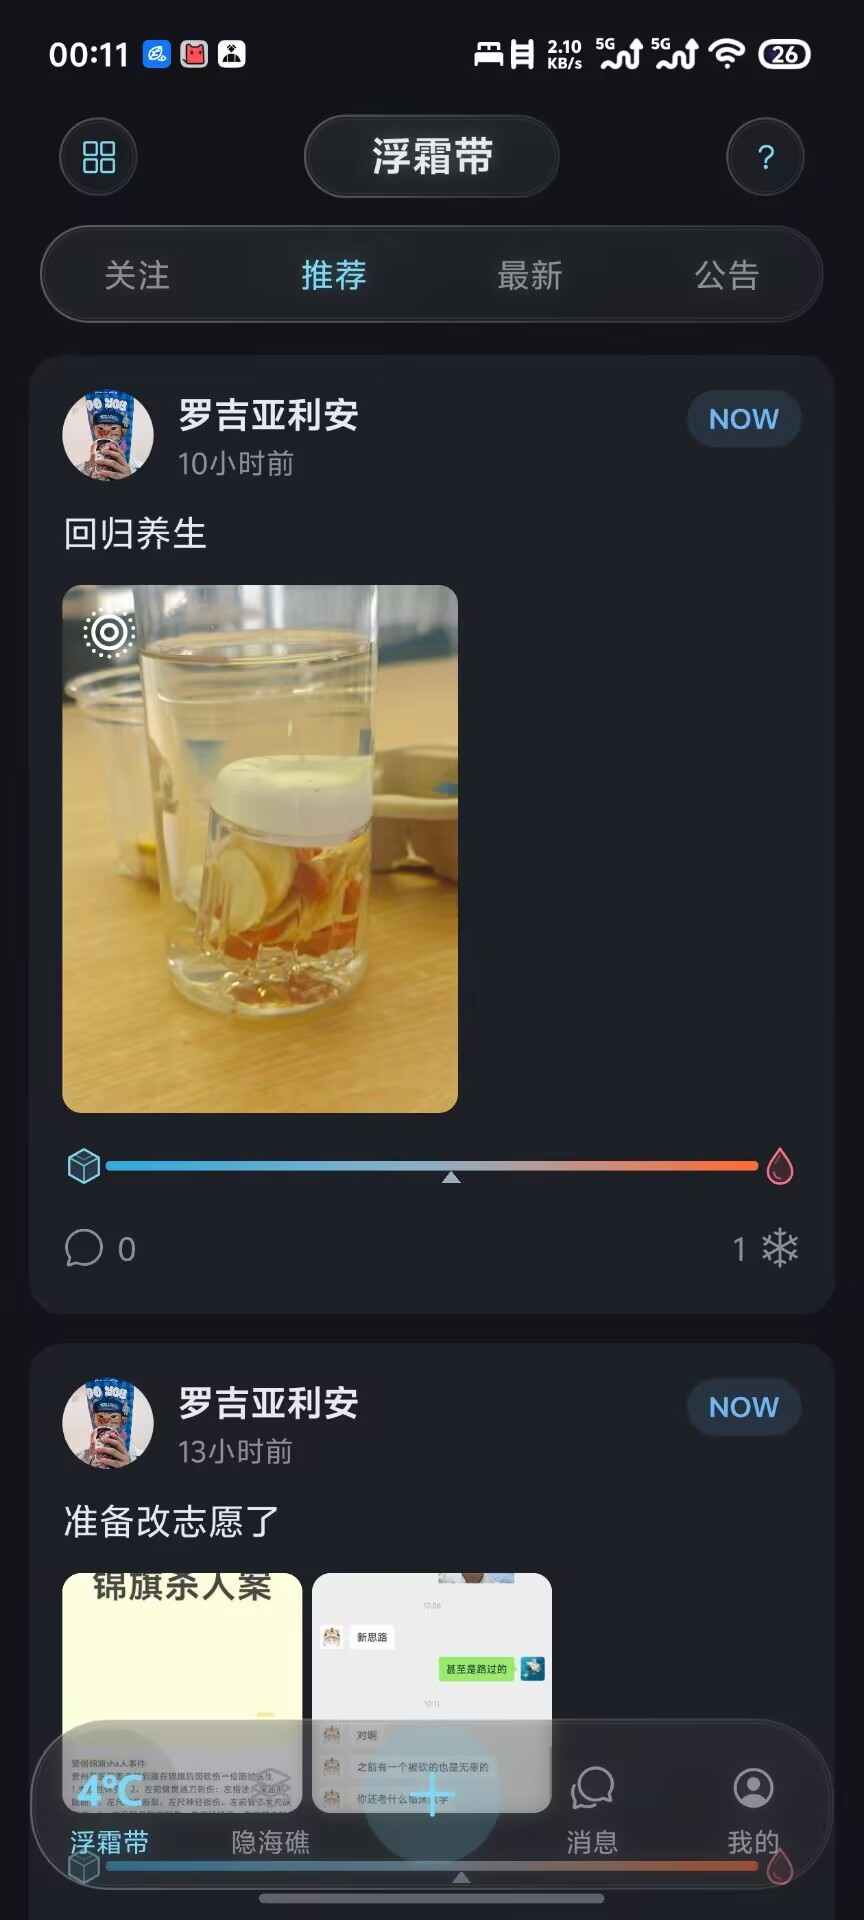
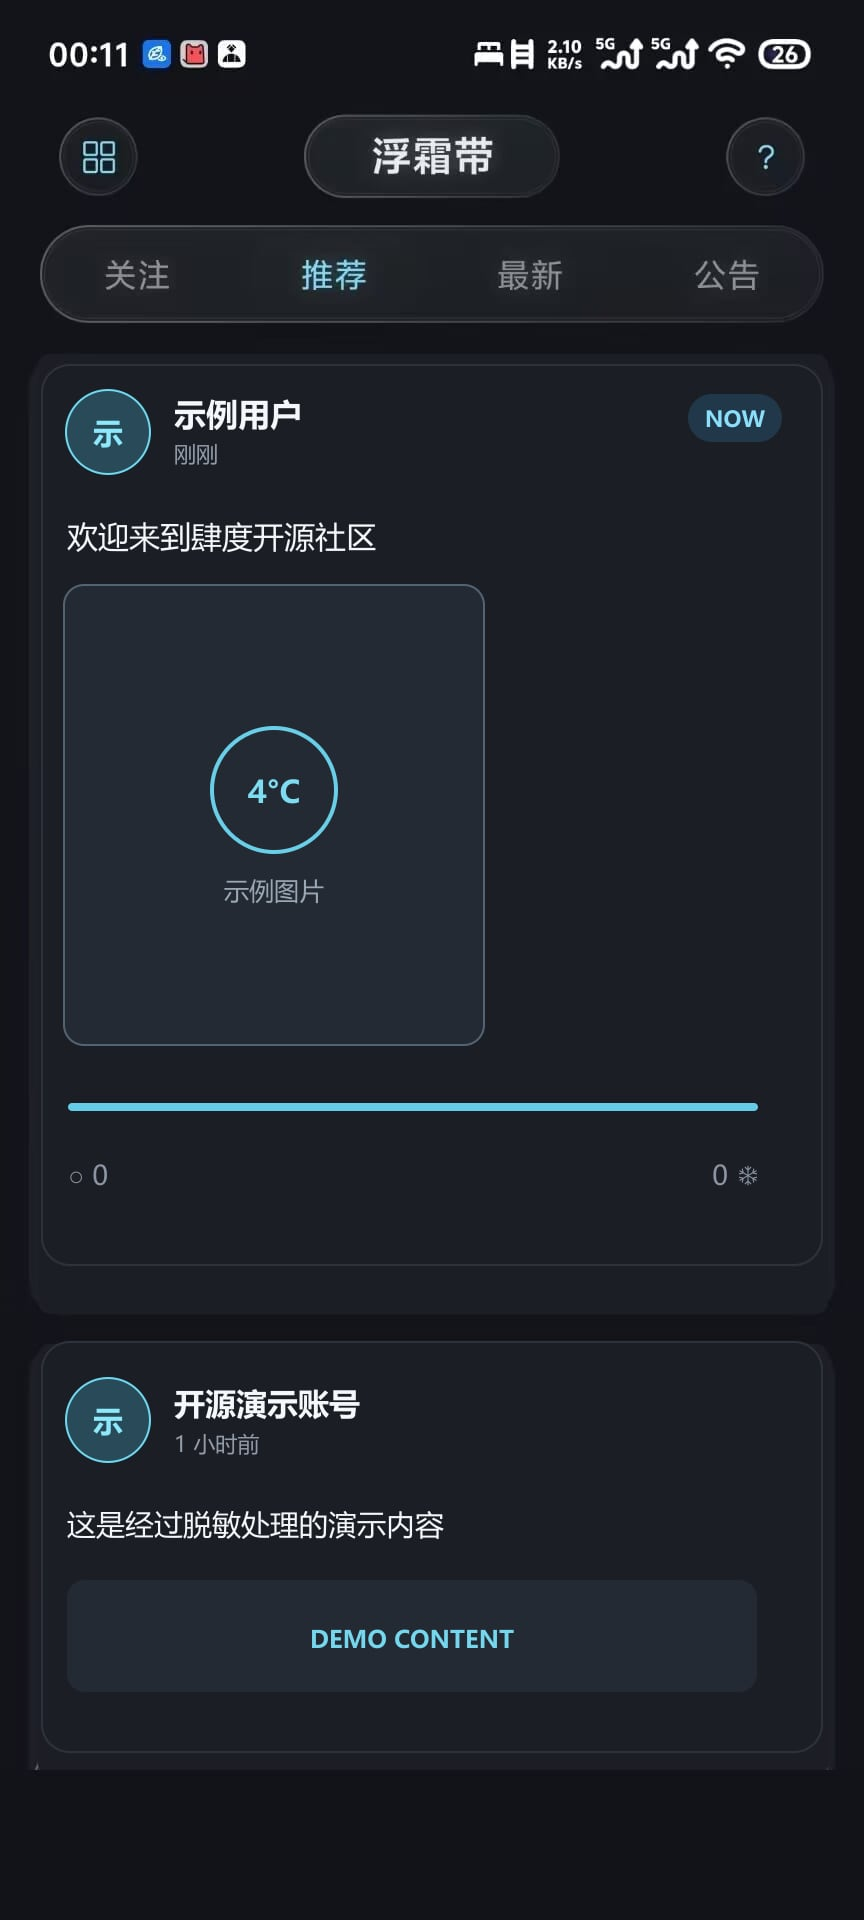
chore: sanitize public repository defaults and assets

diff --git a/server/src/index.js b/server/src/index.js
@@ -1,5 +1,4 @@
 require('dotenv').config();
-const crypto = require('node:crypto');
 const express = require('express');
 const http = require('http');
 const cors = require('cors');
@@ -221,22 +220,24 @@ app.use((error, req, res, next) => {
   if (!admin) {
     const isProduction = process.env.NODE_ENV === 'production';
     const bootstrapUsername = String(process.env.ADMIN_BOOTSTRAP_USERNAME || (isProduction ? '' : 'noesis')).trim();
-    let bootstrapPassword = String(process.env.ADMIN_BOOTSTRAP_PASSWORD || '');
-    const generatedPassword = !bootstrapPassword && !isProduction;
-    if (generatedPassword) bootstrapPassword = crypto.randomBytes(18).toString('base64url');
-    if (bootstrapUsername.length < 3 || bootstrapUsername.length > 64 || bootstrapPassword.length < 12 || bootstrapPassword.length > 128) {
+    const bootstrapPassword = String(process.env.ADMIN_BOOTSTRAP_PASSWORD || (isProduction ? '' : 'noesis'));
+    const usesPublishedLocalCredentials = bootstrapUsername === 'noesis' && bootstrapPassword === 'noesis';
+    const invalidPasswordLength = bootstrapPassword.length > 128
+      || (isProduction && bootstrapPassword.length < 12)
+      || (!isProduction && bootstrapPassword.length < 6);
+    if (bootstrapUsername.length < 3 || bootstrapUsername.length > 64 || invalidPasswordLength || (isProduction && usesPublishedLocalCredentials)) {
       console.error(isProduction
-        ? '未创建超级管理员：生产环境必须设置 3-64 位 ADMIN_BOOTSTRAP_USERNAME 和 12-128 位 ADMIN_BOOTSTRAP_PASSWORD'
-        : '未创建超级管理员：请设置有效的 ADMIN_BOOTSTRAP_PASSWORD，或保持为空以生成一次性本地测试密码');
+        ? '未创建超级管理员：生产环境必须设置自定义的 3-64 位 ADMIN_BOOTSTRAP_USERNAME 和 12-128 位 ADMIN_BOOTSTRAP_PASSWORD'
+        : '未创建超级管理员：本地管理员密码必须为 6-128 位');
       return;
     }
     const id = uuid();
     const hash = bcrypt.hashSync(bootstrapPassword, 10);
     db.prepare(`INSERT INTO users (id, username, password_hash, nickname, role, status)
       VALUES (?, ?, ?, '超级管理员', 'superadmin', 'active')`).run(id, bootstrapUsername, hash);
-    if (generatedPassword) {
-      console.warn(`本地超级管理员已创建: ${bootstrapUsername}`);
-      console.warn(`一次性初始密码（仅显示本次，请立即登录后修改）: ${bootstrapPassword}`);
+    if (usesPublishedLocalCredentials) {
+      console.warn('本地超级管理员已创建：noesis / noesis');
+      console.warn('该凭据仅用于本地测试，请登录后立即修改登录 ID 和密码');
     } else {
       console.log(`超级管理员已创建: ${bootstrapUsername}`);
     }

diff --git a/server/test/cos-media-signing.test.js b/server/test/cos-media-signing.test.js
@@ -7,7 +7,7 @@ function signer() {
   return createCosMediaSigner({
     secretId: 'AKIDEXAMPLE',
     secretKey: 'secret-example',
-    bucket: 'sidu-1234567890',
+    bucket: 'example-media-1234567890',
     region: 'ap-guangzhou',
     ttlSeconds: 3600,
   });
@@ -15,23 +15,23 @@ function signer() {
 
 test('signs only URLs from the configured COS bucket', () => {
   const media = signer();
-  const source = 'https://sidu-1234567890.cos.ap-guangzhou.myqcloud.com/USERS/u1/posts/a.jpg';
+  const source = 'https://example-media-1234567890.cos.ap-guangzhou.myqcloud.com/USERS/u1/posts/a.jpg';
   const signed = media.signUrl(source);
-  assert.match(signed, /^https:\/\/sidu-1234567890\.cos\.ap-guangzhou\.myqcloud\.com\/USERS\/u1\/posts\/a\.jpg\?/);
+  assert.match(signed, /^https:\/\/example-media-1234567890\.cos\.ap-guangzhou\.myqcloud\.com\/USERS\/u1\/posts\/a\.jpg\?/);
   assert.match(signed, /q-signature=/);
   assert.equal(media.signUrl('https://other.example.com/a.jpg'), 'https://other.example.com/a.jpg');
 });
 
 test('keeps signed URLs stable during the cache window', () => {
   const media = signer();
-  const source = 'https://sidu-1234567890.cos.ap-guangzhou.myqcloud.com/USERS/u1/videos/a.mp4';
+  const source = 'https://example-media-1234567890.cos.ap-guangzhou.myqcloud.com/USERS/u1/videos/a.mp4';
   assert.equal(media.signUrl(source), media.signUrl(source));
 });
 
 test('deep-signs media URLs inside objects, arrays, and JSON message content', () => {
   const media = signer();
-  const stillUrl = 'https://sidu-1234567890.cos.ap-guangzhou.myqcloud.com/USERS/u1/live/a.jpg';
-  const motionUrl = 'https://sidu-1234567890.cos.ap-guangzhou.myqcloud.com/USERS/u1/live/a.mp4';
+  const stillUrl = 'https://example-media-1234567890.cos.ap-guangzhou.myqcloud.com/USERS/u1/live/a.jpg';
+  const motionUrl = 'https://example-media-1234567890.cos.ap-guangzhou.myqcloud.com/USERS/u1/live/a.mp4';
   const result = media.signPayload({
     avatar: stillUrl,
     images: [stillUrl],
@@ -48,7 +48,7 @@ test('deep-signs media URLs inside objects, arrays, and JSON message content', (
 
 test('is a no-op when COS signing is not configured', () => {
   const media = createCosMediaSigner({ secretId: '', secretKey: '', bucket: '', region: '' });
-  const source = 'https://sidu-1234567890.cos.ap-guangzhou.myqcloud.com/a.jpg';
+  const source = 'https://example-media-1234567890.cos.ap-guangzhou.myqcloud.com/a.jpg';
   const payload = { content: '{  "kept" : true }', source };
   assert.equal(media.enabled, false);
   assert.equal(media.signUrl(source), source);

diff --git a/community-app/src/data/store.ts b/community-app/src/data/store.ts
@@ -135,7 +135,7 @@ const mutualPairs = new Set<string>();
 const NAME_TO_UID: Record<string, string> = {
   '山间清风': '10234567', '深夜干饭人': '10289123', 'Tech小王': '10345678',
   '一只咸鱼': '10412001', '阅读记录本': '10567890', '路人甲': '10654321',
-  '吕归尘': '10247835',
+  '示例用户': '1000001',
   '系统通知': '10000000', '背包客小李': '10789012', '在路上': '10890123',
   '摄影穷三代': '10901234', '干饭魂': '11012345', '过路的': '11123456',
   '数码羊毛党': '11234567', '峡谷养老院': '11345678', '书虫一枚': '11456789',
@@ -189,10 +189,10 @@ export function isMutuallyHidden(nameA: string, nameB: string) {
 export function setBlocked(name: string, blocked: boolean) {
   if (blocked) {
     blockedUsers[name] = true;
-    mutualPairs.add(pairKey(getUid('吕归尘'), getUid(name)));
+    mutualPairs.add(pairKey(getUid('示例用户'), getUid(name)));
   } else {
     delete blockedUsers[name];
-    mutualPairs.delete(pairKey(getUid('吕归尘'), getUid(name)));
+    mutualPairs.delete(pairKey(getUid('示例用户'), getUid(name)));
   }
   bump();
 }

diff --git a/server/test/admin-bootstrap-security.test.js b/server/test/admin-bootstrap-security.test.js
@@ -5,11 +5,12 @@ const path = require('node:path');
 
 const source = fs.readFileSync(path.join(__dirname, '..', 'src', 'index.js'), 'utf8');
 
-test('server startup never creates a known default administrator', () => {
-  assert.doesNotMatch(source, /ADMIN_BOOTSTRAP_USERNAME \|\| 'admin'/);
-  assert.doesNotMatch(source, /admin123/);
-  assert.match(source, /const crypto = require\('node:crypto'\)/);
-  assert.match(source, /crypto\.randomBytes\(18\)/);
+test('local startup is easy while production rejects the published credentials', () => {
+  assert.match(source, /ADMIN_BOOTSTRAP_USERNAME \|\| \(isProduction \? '' : 'noesis'\)/);
+  assert.match(source, /ADMIN_BOOTSTRAP_PASSWORD \|\| \(isProduction \? '' : 'noesis'\)/);
+  assert.match(source, /usesPublishedLocalCredentials/);
+  assert.match(source, /isProduction && usesPublishedLocalCredentials/);
   assert.match(source, /bootstrapUsername\.length < 3/);
-  assert.match(source, /bootstrapPassword\.length < 12/);
+  assert.match(source, /isProduction && bootstrapPassword\.length < 12/);
+  assert.match(source, /!isProduction && bootstrapPassword\.length < 6/);
 });

diff --git a/server/test/ip-region.test.js b/server/test/ip-region.test.js
@@ -3,12 +3,12 @@ const assert = require('node:assert/strict');
 const { normalizeIp, resolveIpRegion, shortRegionName } = require('../src/lib/ip-region');
 
 test('normalizes IPv4-mapped addresses and rejects invalid input', () => {
-  assert.equal(normalizeIp('::ffff:120.24.78.68'), '120.24.78.68');
+  assert.equal(normalizeIp('::ffff:8.8.8.8'), '8.8.8.8');
   assert.equal(normalizeIp('not-an-ip'), '');
 });
 
 test('returns coarse regions without exposing the full address', () => {
-  assert.equal(resolveIpRegion('120.24.78.68'), '广东');
+  assert.equal(resolveIpRegion('8.8.8.8'), '美国');
   assert.equal(resolveIpRegion('192.168.1.5'), '未知');
   assert.equal(shortRegionName('广西壮族自治区'), '广西');
   assert.equal(shortRegionName('香港特别行政区'), '香港');

diff --git a/server/test/app-update-chain-security.test.js b/server/test/app-update-chain-security.test.js
@@ -81,7 +81,7 @@ test('iOS checks the App Store instead of applying an in-app OTA', () => {
 
 test('Android build 13 treats DEV-070 as embedded while preserving future OTA checks', () => {
   const updaterSource = fs.readFileSync(path.join(__dirname, '../../community-app/src/lib/app-updater.ts'), 'utf8');
-  assert.match(updaterSource, /'9a5b8e93-b95e-423b-b5d4-48d743160de3': 13/);
+  assert.match(updaterSource, /'00000000-0000-4000-8000-000000000013': 13/);
   assert.match(updaterSource, /versionCode >= minimumBuild/);
   assert.match(updaterSource, /payload\.ota\.available[\s\S]*!isAndroidOtaIncludedInNativeBuild\(currentVersionCode\(\), latestOtaUpdateId\)/);
   assert.match(updaterSource, /Updates\.checkForUpdateAsync\(\)/);

diff --git a/community-app/src/data/mock.ts b/community-app/src/data/mock.ts
@@ -134,8 +134,8 @@ export const seedChats: Record<string, ChatMessage[]> = {
 };
 
 export const currentUser = {
-  name: '吕归尘',
-  uid: '10247835',
+  name: '示例用户',
+  uid: '1000001',
   avatarColor: '#33A9DC',
   bio: '这个人很懒，什么都没写',
   coverImage: 'https://picsum.photos/seed/cover1/800/300',
@@ -168,7 +168,7 @@ export const tagCategories = [
   },
   {
     title: '钝角',
-    tags: ['嘉豪', '神原玩家', '纳垢', 'ikun', 'popoA5', '0', '1', '叮咚鸡', '大狗叫', '咕咕嘎嘎'],
+    tags: ['随缘', '神原玩家', '纳垢', 'ikun', '碎碎念', '0', '1', '叮咚鸡', '大狗叫', '咕咕嘎嘎'],
   },
 ] as const;
 

diff --git a/community-app/src/components/post-modal.tsx b/community-app/src/components/post-modal.tsx
@@ -93,7 +93,7 @@ export function PostDetailModal({ postId }: { postId: string }) {
   const sendComment = () => {
     const text = draft.trim();
     if (!text) return;
-    setExtraComments((prev) => [...prev, { id: `local-${Date.now()}`, postId: post.id, author: '吕归尘', avatarColor: '#33A9DC', time: '刚刚', content: text, likes: 0 }]);
+    setExtraComments((prev) => [...prev, { id: `local-${Date.now()}`, postId: post.id, author: '示例用户', avatarColor: '#33A9DC', time: '刚刚', content: text, likes: 0 }]);
     setDraft('');
   };
 

diff --git a/server/test/app-updates.test.js b/server/test/app-updates.test.js
@@ -127,7 +127,7 @@ test('Android update manifest exposes native and OTA availability in one fast re
 });
 
 test('native build 13 and newer treat DEV-070 as embedded', () => {
-  const dev070 = '9a5b8e93-b95e-423b-b5d4-48d743160de3';
+  const dev070 = '00000000-0000-4000-8000-000000000013';
   assert.equal(isAndroidOtaIncludedInNativeBuild(12, dev070), false);
   assert.equal(isAndroidOtaIncludedInNativeBuild(13, dev070), true);
   assert.equal(isAndroidOtaIncludedInNativeBuild(14, dev070), true);

diff --git a/server/test/access-control-policy.test.js b/server/test/access-control-policy.test.js
@@ -46,5 +46,6 @@ test('production refuses weak JWT and default bootstrap administrator credential
   assert.match(source('src/lib/security-config.js'), /configuredJwtSecret\.length < 32/);
   const index = source('src/index.js');
   assert.match(index, /ADMIN_BOOTSTRAP_PASSWORD/);
-  assert.match(index, /bootstrapPassword\.length < 12/);
+  assert.match(index, /isProduction && bootstrapPassword\.length < 12/);
+  assert.match(index, /isProduction && usesPublishedLocalCredentials/);
 });

diff --git a/server/src/routes/app-updates.js b/server/src/routes/app-updates.js
@@ -6,7 +6,7 @@ const { baseVersionName, mergePublicUpdateLogs } = require('../lib/update-log-gr
 
 const DEFAULT_PUBLIC_ORIGIN = process.env.APP_UPDATE_PUBLIC_ORIGIN || 'http://localhost:3001';
 const ANDROID_EMBEDDED_OTA_MINIMUM_BUILD = Object.freeze({
-  '9a5b8e93-b95e-423b-b5d4-48d743160de3': 13,
+  '00000000-0000-4000-8000-000000000013': 13,
 });
 
 function isAndroidOtaIncludedInNativeBuild(versionCode, updateId) {

diff --git a/community-app/src/lib/app-updater.ts b/community-app/src/lib/app-updater.ts
@@ -41,7 +41,7 @@ type AndroidUpdateCheck = {
 };
 
 const ANDROID_EMBEDDED_OTA_MINIMUM_BUILD: Readonly<Record<string, number>> = {
-  '9a5b8e93-b95e-423b-b5d4-48d743160de3': 13,
+  '00000000-0000-4000-8000-000000000013': 13,
 };
 
 export function isAndroidOtaIncludedInNativeBuild(versionCode: number, updateId: string) {
